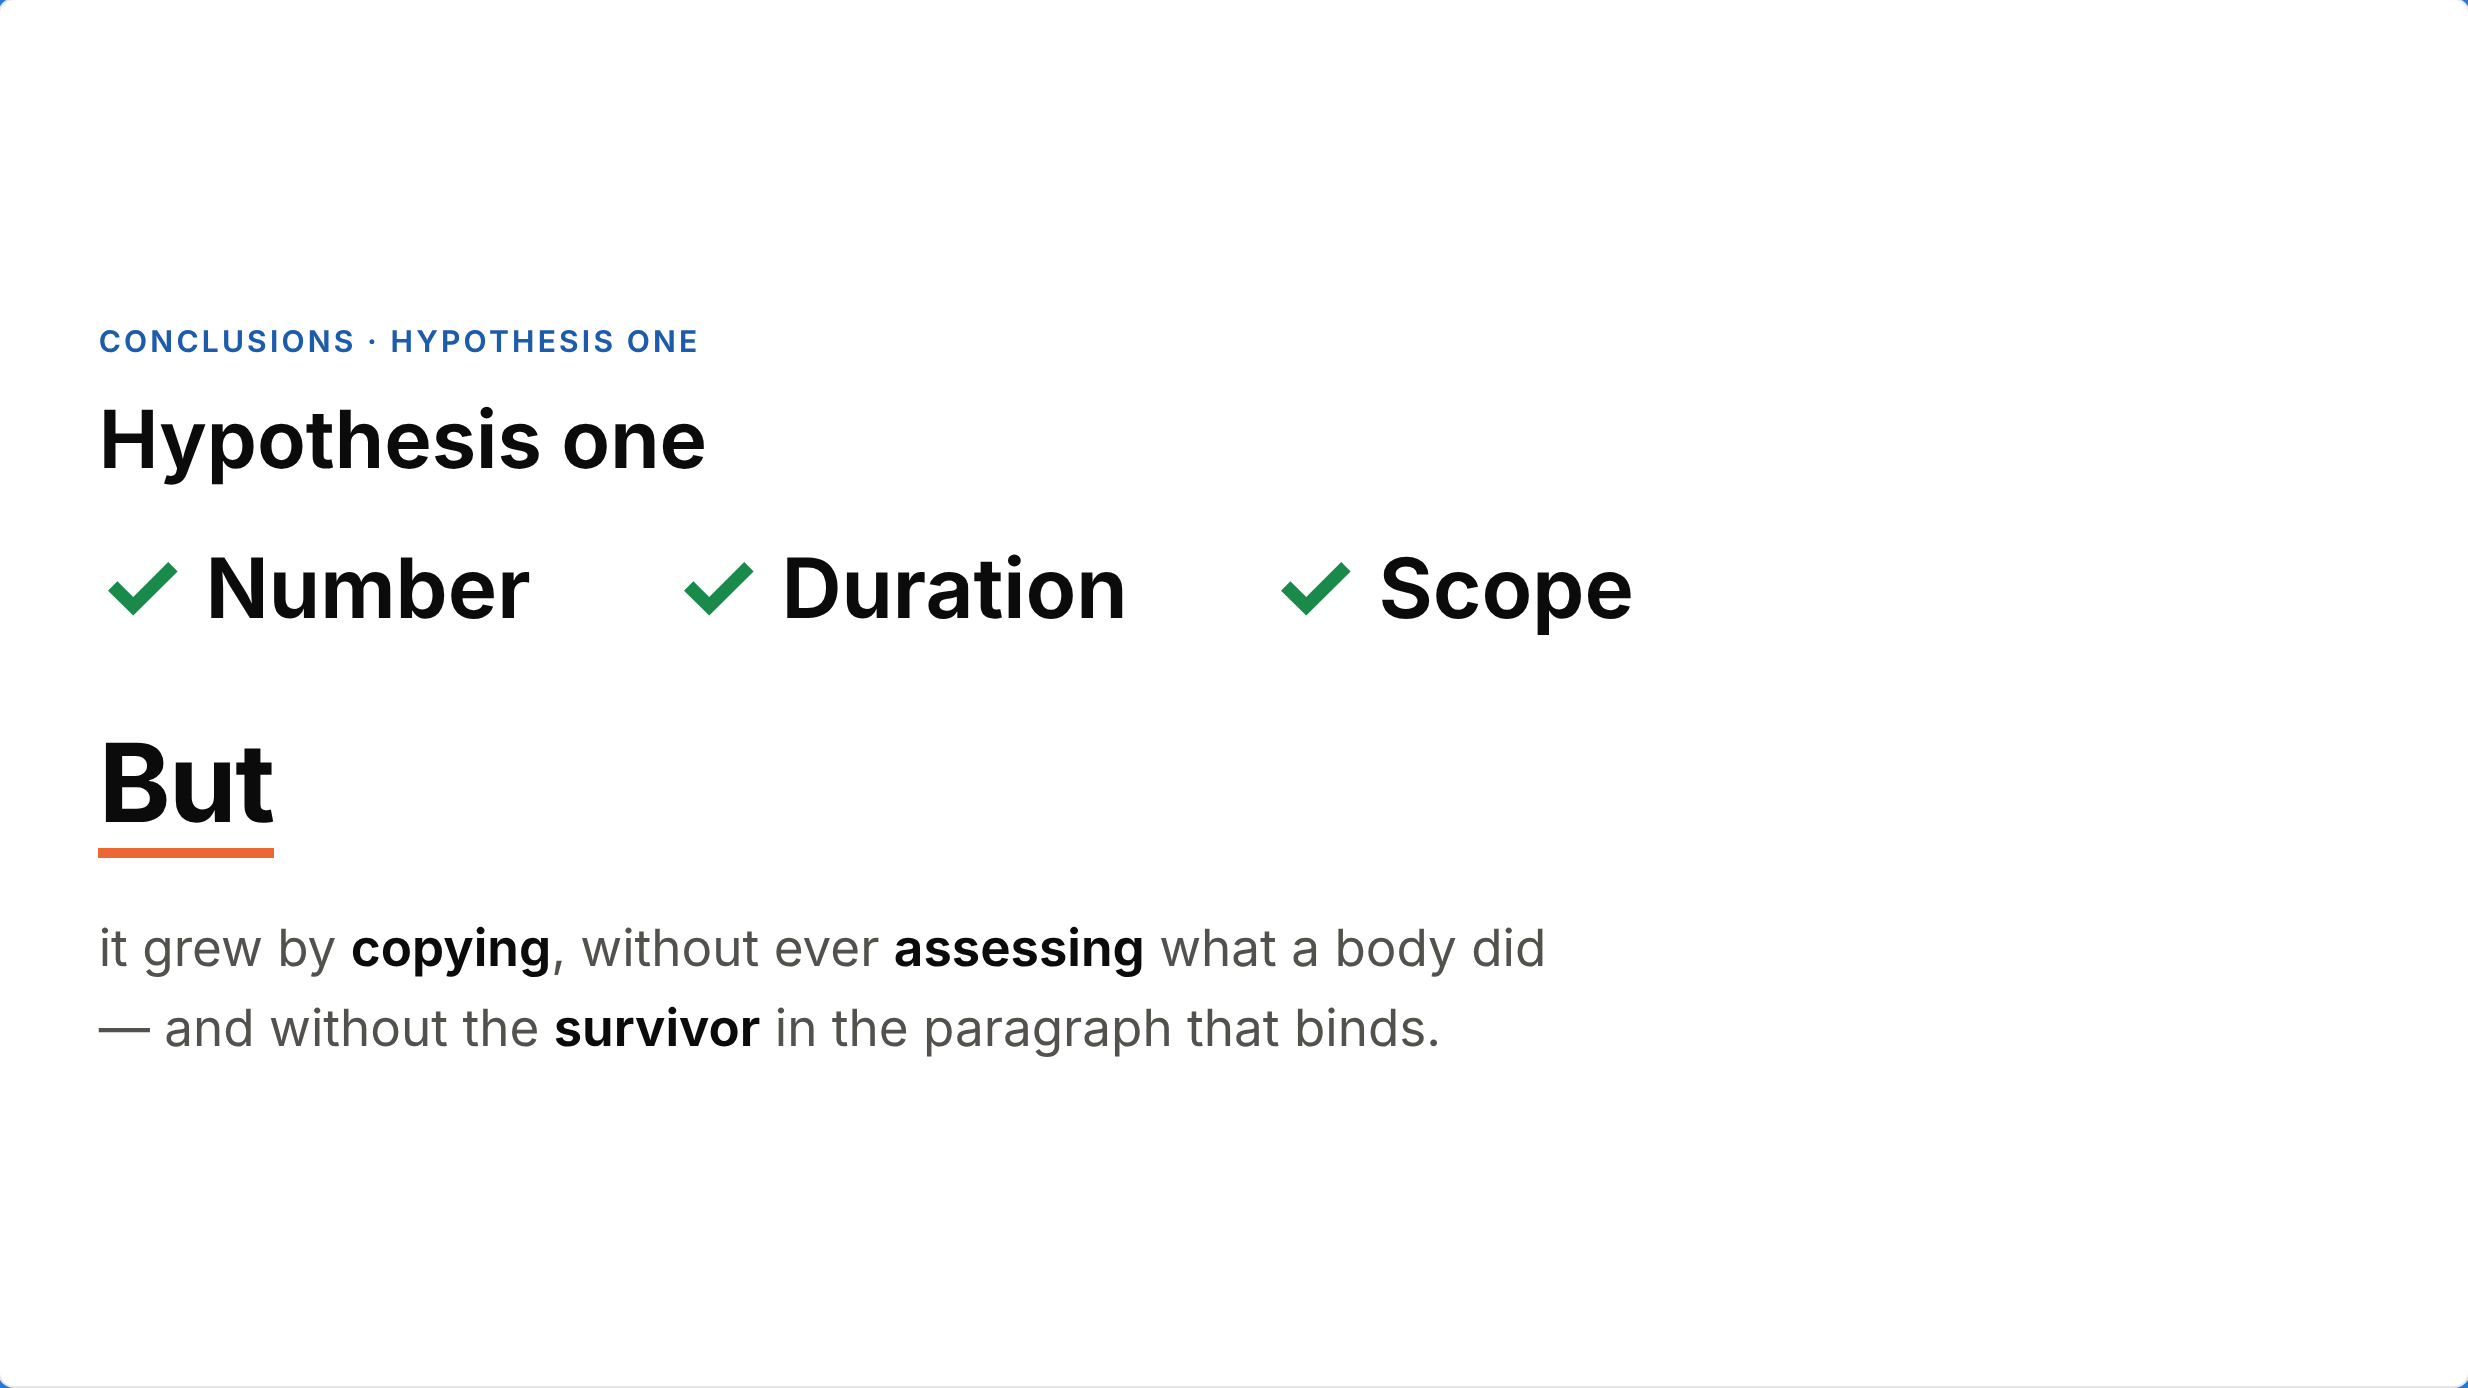
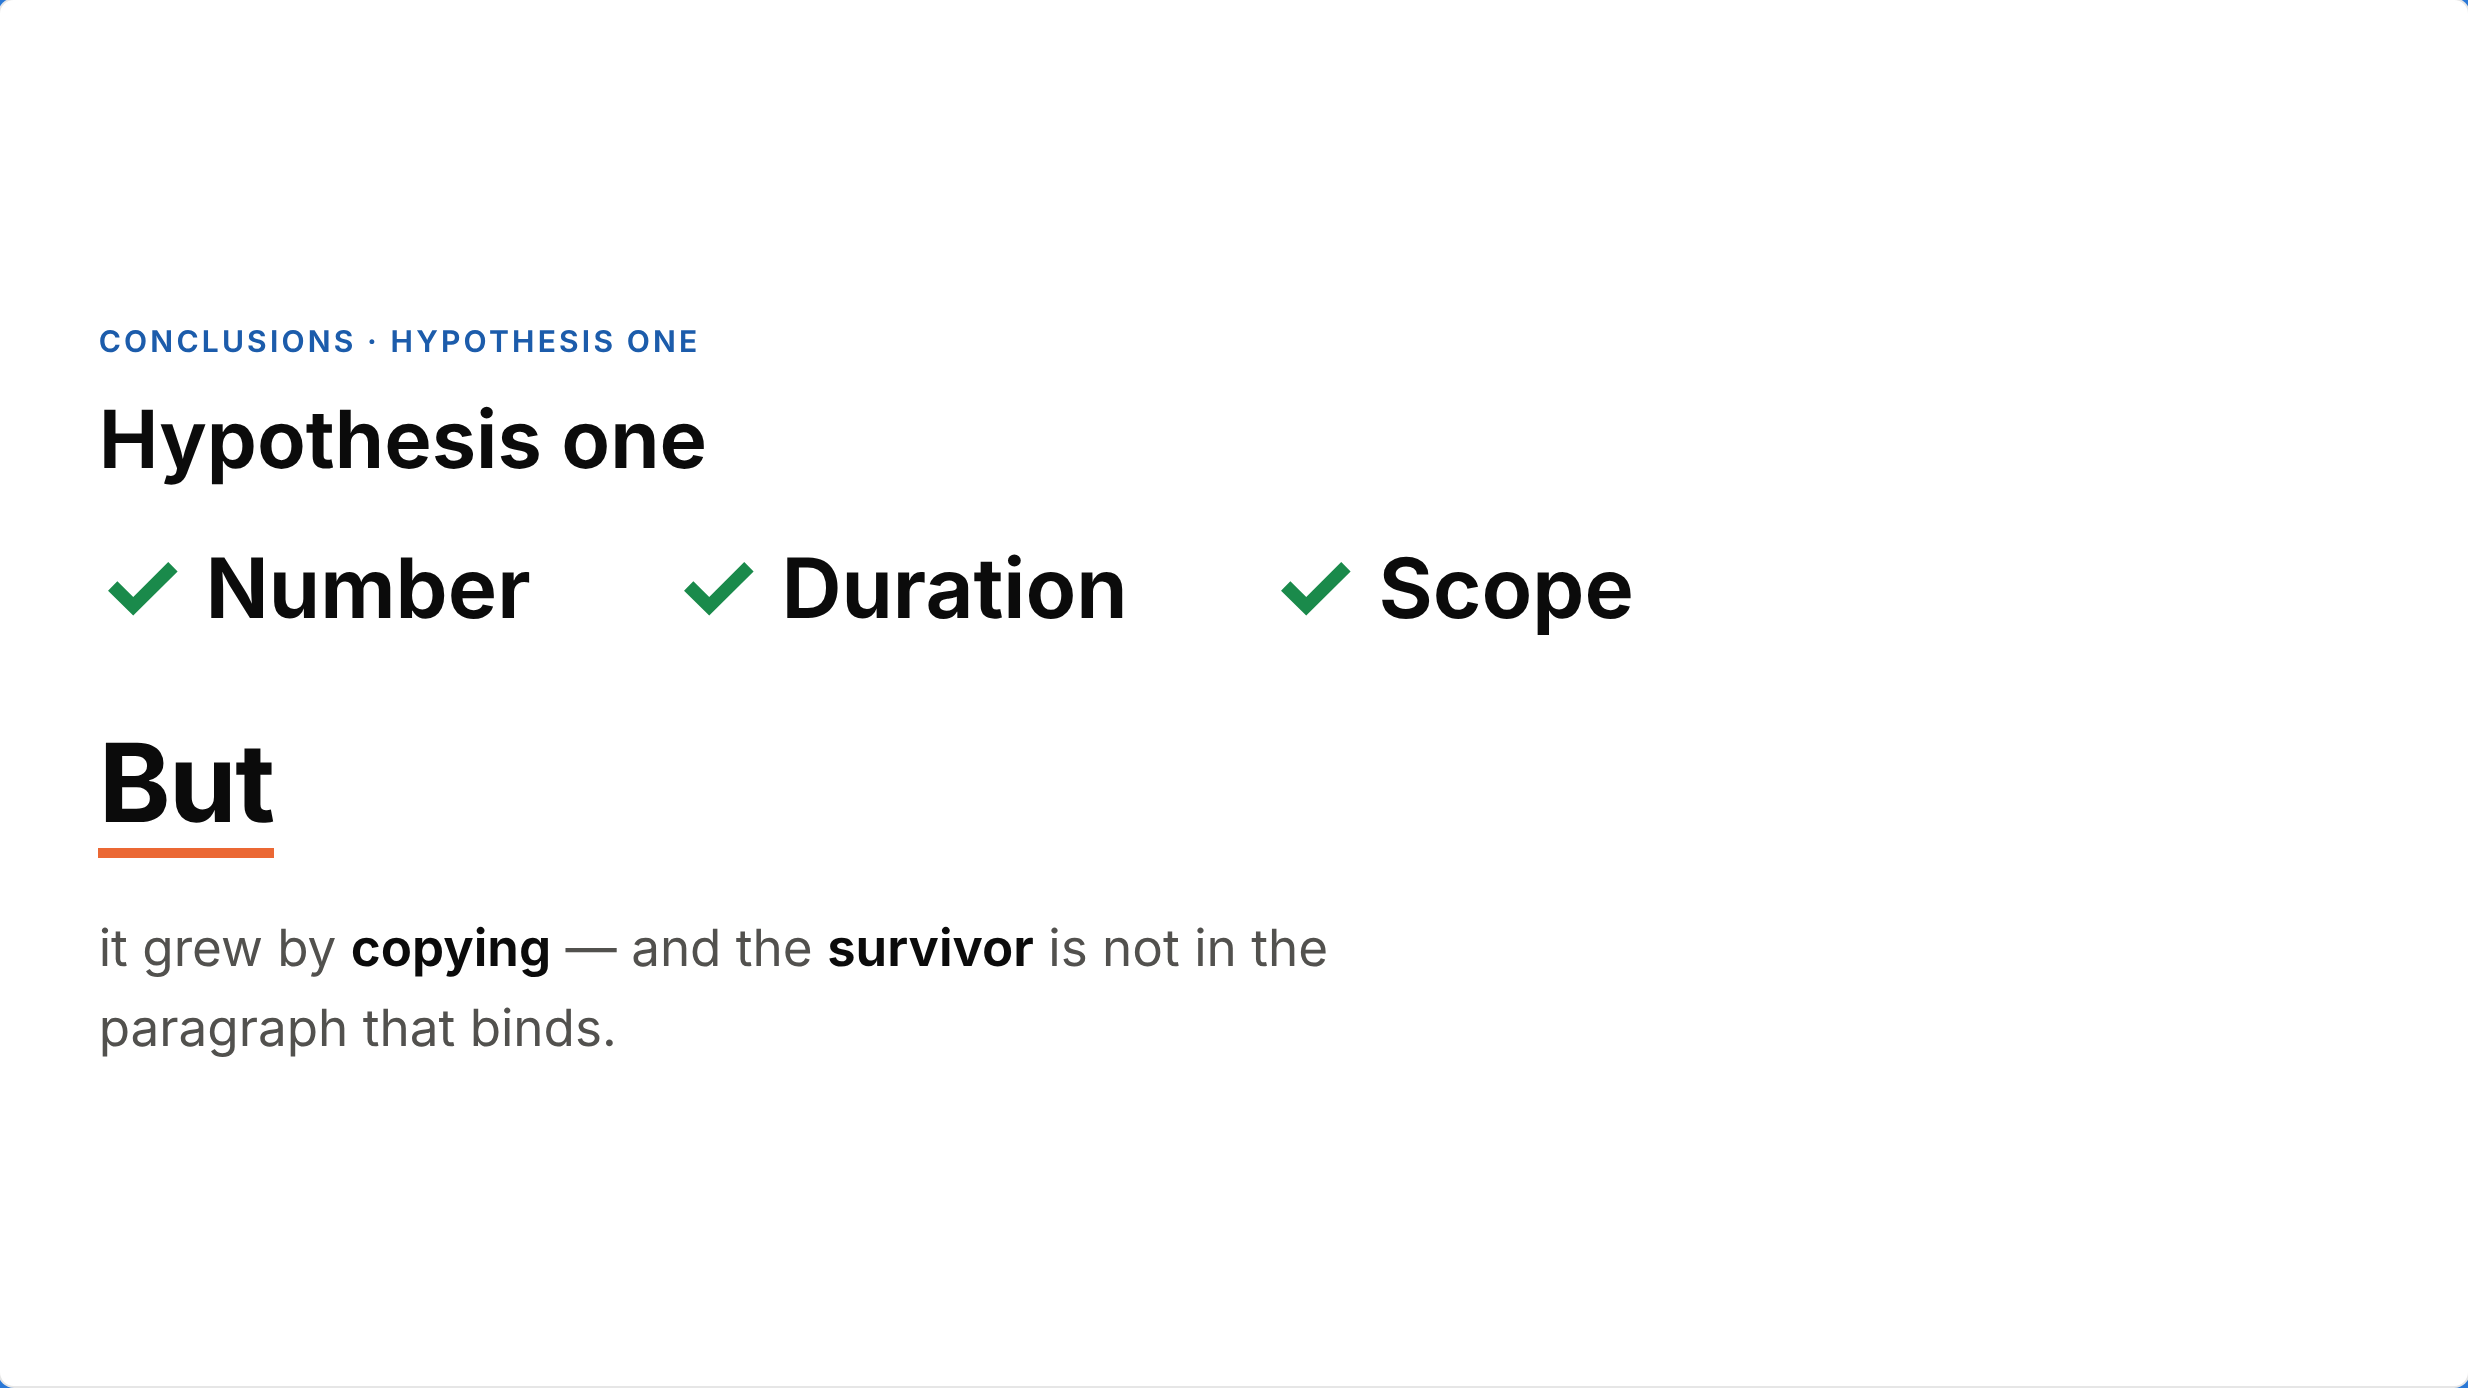
Close on the QR, shorten the hypothesis-two verdict, drop the assessment claim
Three changes Helena asked for while rehearsing:
- The deck ends on the dashboard QR, not on a written summary. qr.js now
  exposes its matrix so the slide and the overlay stay in step.
- The hypothesis-two verdict is a red cross and four figures.
- 'Without assessing what a body did' is gone. The corpus is the written
  record; whether mandates are weighed in the negotiation is not something
  these texts can show, so the talk should not claim it.

Claude-Session: https://claude.ai/code/session_01WsQuBfbGc7mVFzA2y2gQWQ

Changed region(s): [[0.0312, 0.6506, 0.624, 0.7745]]

diff --git a/assets/summary.js b/assets/summary.js
@@ -2150,19 +2150,38 @@
     </ul>
     <div class="sg-but-block">
       <p class="sg-but-word">But</p>
-      <p class="sg-but">it grew by <b>copying</b>, without ever <b>assessing</b> what a body did
-        \u2014 and without the <b>survivor</b> in the paragraph that binds.</p>
+      <p class="sg-but">it grew by <b>copying</b> \u2014 and the <b>survivor</b> is not in the
+        paragraph that binds.</p>
     </div>`);
 
-  const H2_CONCL_CARD = proseCard("c2", "Conclusions \u00b7 Hypothesis two", "Not increasing \u2014 thinning", `
+  const H2_CONCL_CARD = proseCard("c2", "Conclusions \u00b7 Hypothesis two", "Hypothesis two", `
+    <ul class="sg-checks sg-checks-no">
+      <li><span class="sg-cross">\u2717</span>Support increasing</li>
+    </ul>
     <ul class="sg-keys">
-      <li><b>No.</b> Two thirds of members in favour before 2016; half since, and flat for 10 years.</li>
-      <li><b>The movement is to abstention, not to opposition.</b> Abstentions are not votes \u2014 a narrower base costs the drafters nothing.</li>
-      <li><b>Consent, not drafting, decides the vote.</b> Redrafting mandate language will not widen the majority.</li>
-      <li><b>Double standards run both ways.</b> Habitual opponents vote yes on Israel and on 3% of the rest; the Western group, 97% of the rest and 18% of those.</li>
-      <li><b>The sponsors stay WEOG.</b> 16 of the top 20 \u2014 the solution is believed in by the states that proposed it.</li>
-      <li><b>Contestation is intrinsic.</b> The work names governments; it was never going to be consensual.</li>
+      <li><b>64%</b> of texts go to a vote \u2014 and that tracks the <b>State</b>, not the text.</li>
+      <li>Abstentions <b>up 70%</b>: 9 \u2192 15 per vote. Opposition barely moved.</li>
+      <li>Average Yes: <b>68% of the room \u2192 52%</b>. Flat for 10 years.</li>
+      <li><b>Double standards, both ways.</b></li>
     </ul>`);
+
+  // The talk ends on the dashboard, not on a summary: the argument has been made,
+  // and what the room can take away is the data.
+  const QR_CARD = {
+    id: "qr", prose: true,
+    html: () => {
+      const Q = window.HRCQr;
+      const svg = Q ? Q.svg(360).outerHTML : "";
+      const url = (Q ? Q.url : "https://helenarbc.github.io/un-investigative-mandates/")
+        .replace(/^https?:\/\//, "").replace(/\/$/, "");
+      return `<div class="sg-prose-in sg-qr">
+        <p class="sg-eyebrow">The dataset is public</p>
+        <h2 class="sg-prose-h">Scan to open the dashboard</h2>
+        <div class="sg-qr-img">${svg}</div>
+        <p class="sg-qr-url">${url}</p>
+      </div>`;
+    },
+  };
 
   const VERDICT_CARD = proseCard("verdicts", "Conclusions", "What the texts answer", `
     <div class="sg-verdict">
@@ -2650,7 +2669,7 @@ What an expansion looks like: resolution 62/1 of 6 July 2026, on El Obeid, adopt
         "1fr 1fr"),
       H2_CONCL_CARD,
 
-      VERDICT_CARD
+      QR_CARD
     );
     // Sections are a property of the chart object, and the deck reuses the same
     // objects, so set them after the Overview numbering has had its turn.

diff --git a/assets/app.css b/assets/app.css
@@ -618,6 +618,19 @@ mark.cmp-v { background: #2a78d6; color: #fff; border-radius: 3px; padding: 0 3p
 .sg-checks { display: flex; gap: 46px; flex-wrap: wrap; margin: 10px 0 26px; padding: 0; list-style: none; }
 .sg-checks li { display: flex; align-items: center; gap: 12px; font-size: 24px; font-weight: 650; color: var(--ink); }
 .sg-tick { color: #1a8a4b; font-size: 1.15em; line-height: 1; }
+.sg-qr { text-align: center; }
+.sg-qr-img { margin: 22px auto 14px; line-height: 0; }
+.sg-qr-img svg { width: min(340px, 60vw); height: auto; }
+.sg-qr-url { margin: 0; font-size: 17px; color: var(--ink-2); }
+.pr-prose .sg-qr .sg-prose-h { margin-bottom: 0; }
+.pr-prose .sg-qr-img { margin: 2.4% auto 1.6%; }
+.pr-prose .sg-qr-img svg { width: clamp(180px, 26vh, 420px); }
+.pr-prose .sg-qr-url { font-size: clamp(12px, 1.2vw, 22px); }
+
+.sg-checks-no { margin-bottom: 20px; }
+.sg-cross { color: #eb6834; font-size: 1.1em; line-height: 1; }
+.pr-prose .sg-checks-no { margin-bottom: 2.6%; }
+
 .sg-but-block { margin-top: 6px; }
 .sg-but-word {
   display: inline-block; margin: 0 0 14px; padding-bottom: 4px;

diff --git a/assets/qr.js b/assets/qr.js
@@ -57,6 +57,9 @@
     document.body.appendChild(overlay);
   }
 
+  // The Presentation tab closes on a QR slide, so it needs the same matrix.
+  window.HRCQr = { svg: qrSvg, url: URL_ };
+
   function wire() {
     var btn = document.getElementById("qr-btn");
     if (btn) btn.addEventListener("click", function (e) { e.stopPropagation(); open(); });
